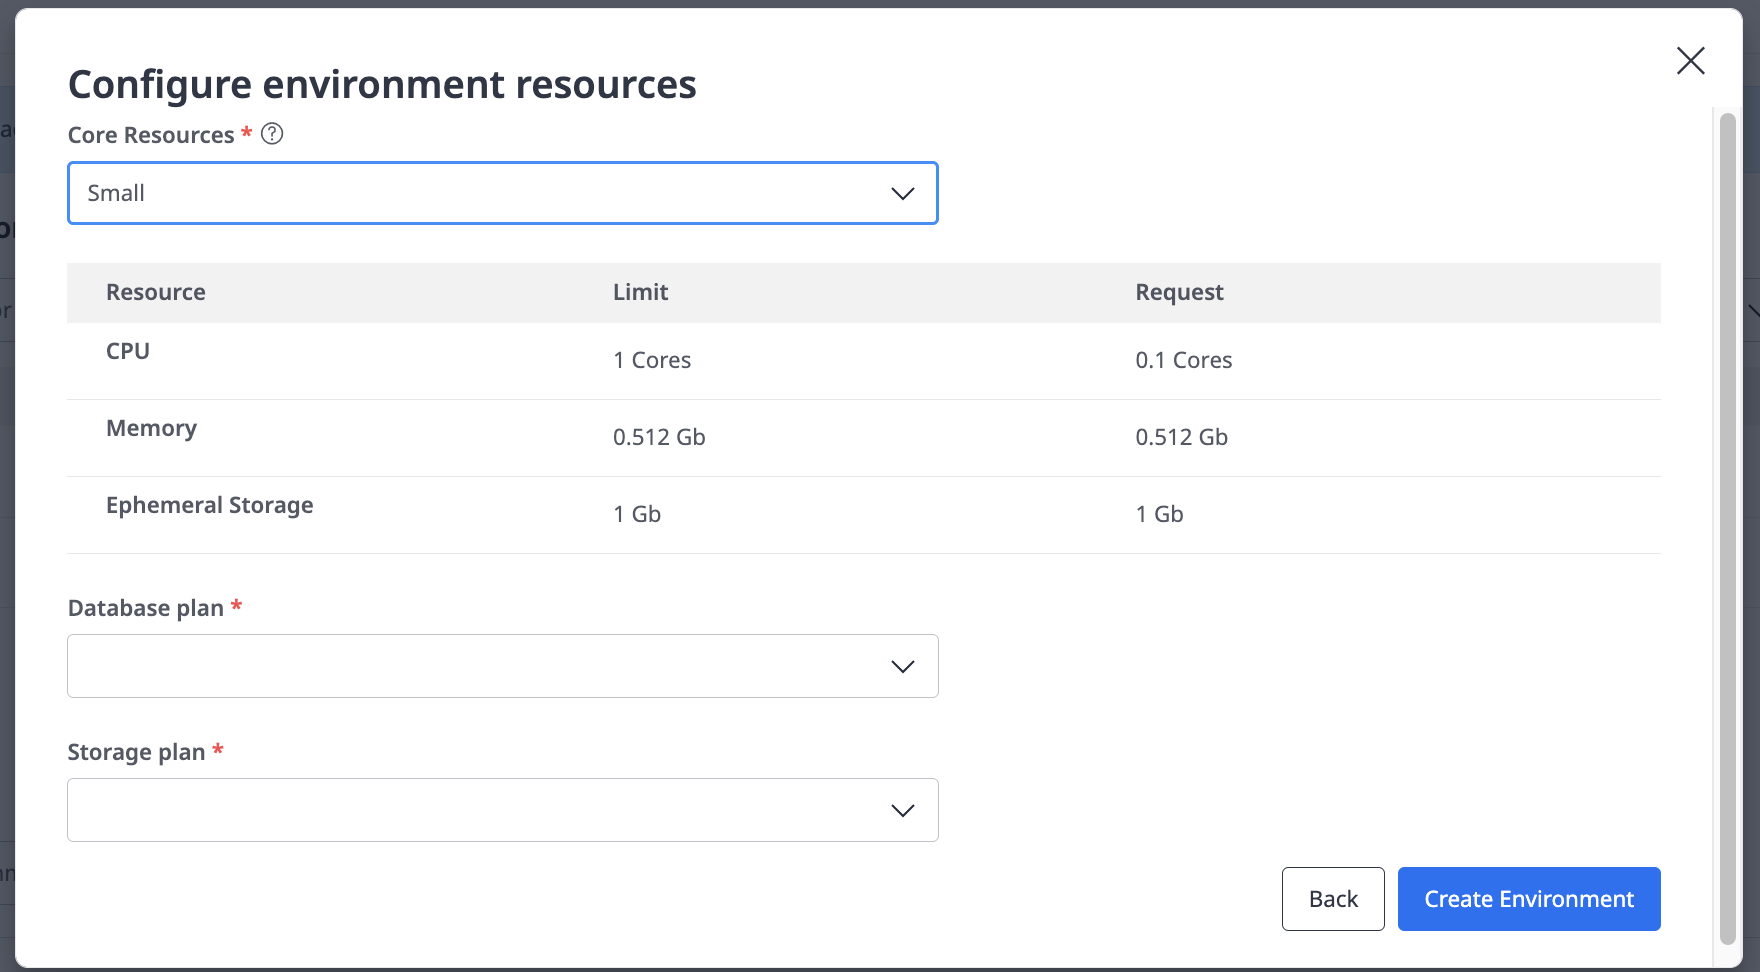
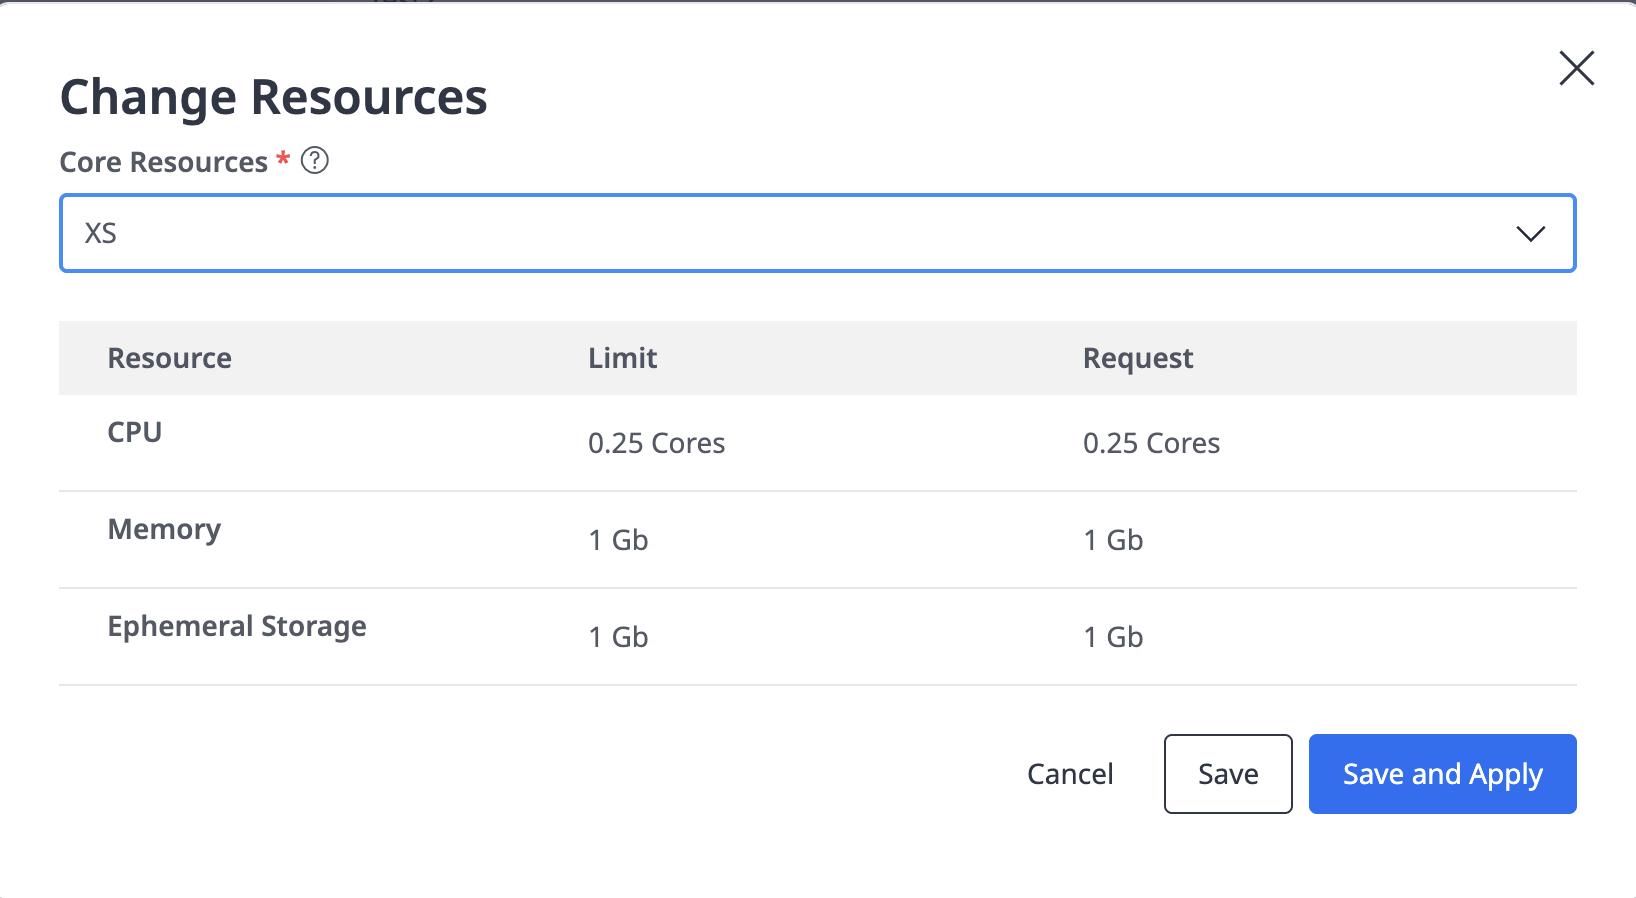
Added release notes for Private cloud portal release 7.27.0

diff --git a/content/en/docs/deployment/private-cloud/private-cloud-deploy/_index.md b/content/en/docs/deployment/private-cloud/private-cloud-deploy/_index.md
@@ -136,16 +136,24 @@ All environments are defined as production environments, which means that [secur
 
     For core resources, there are two sets of values. The **Request** value is the amount of core resources which are initially requested. The **Limit** value is the maximum amount of resource that the environment can use.
 
-    There are three pre-defined sets of resources, **Small**, **Medium**, and **Large**. Choosing these will set the **CPU** and **Memory** values automatically.
+    There are six pre-defined sets of resources, **XS**, **S**, **M**, **L**, **XL**, and **XXL**.
+
+    Legacy plans are still visible with a **Legacy** prefix.
 
     | **Name** | **CPU cores**: Limit | **Memory (GB)**: Limit | **Ephemeral Storage (GB)**: Limit | **CPU cores**: Request | **Memory (GB)**: Request | **Ephemeral Storage (GB)**: Request |
     | --- | --- | --- | --- | --- | --- | --- |
-    | Small | 1 | 0.5 | 1 | 0.1 | 0.5 | 1 |
-    | Medium | 2 | 2 | 1 | 1 | 1 | 1 |
-    | Large | 4 | 4 | 1 | 2 | 2 | 1 |
+    | XS | 0.25 | 1 | 1 | 0.25 | 1 | 1 |
+    | S | 0.5 | 2 | 1 | 0.5 | 2 | 1 |
+    | M | 1 | 4 | 1 | 1 | 4 | 1 |
+    | L | 2 | 8 | 1 | 2 | 8 | 1 |
+    | XL | 4 | 16 | 1 | 4 | 16 | 1 |
+    | XXL | 8 | 32 | 1 | 4 | 32 | 1 |
+    | Legacy Small | 1 | 0.5 | 1 | 0.1 | 0.5 | 1 |
+    | Legacy Medium | 2 | 2 | 1 | 1 | 1 | 1 |
+    | Legacy Large | 4 | 4 | 1 | 2 | 2 | 1 |
     | Custom | own choice | own choice | own choice | own choice | own choice | own choice |
 
-    Alternatively, you can choose **Custom**, and enter your own requirements for **CPU** and **Memory**. Ensure that these values are the same or greater than the values for a *Small* environment, otherwise you may run into problems running your app.
+    Alternatively, you can choose **Custom**, and enter your own requirements for **CPU** and **Memory**. Ensure that these values are the same or greater than the values for a *Legacy Small* environment, otherwise you may run into problems running your app.
 
     {{% alert color="info" %}}If the cluster manager has added and enabled customized core resource plan on Cluster manager page, only the configured custom core resource plans will be visible for selection. Once the custom core resources plans are enabled, environments cannot be created using the default plans until all the associated environments using the custom core resource plan are deleted and the custom resource plan is disabled on the **Cluster manager** page.{{% /alert %}}
 
@@ -538,6 +546,12 @@ Images are not deleted from the container registry. You should delete those imag
 {{% alert color="warning" %}}
 If any of these garbage collection steps fail, you will no longer see the environment in the Mendix Portal, and will have to [delete the storage instances](#delete-storage) manually.
 {{% /alert %}}
+
+##### Custom JVM Heap Memory
+
+You only need to manually adjust JVM memory usage if the default settings aren't fully utilizing available memory. For more information, see [JVM Memory Tuning for Mendix on Kubernetes](/developerportal/deploy/private-cloud-jvm-memory-tuning/).
+
+{{< figure src="/attachments/deployment/private-cloud/private-cloud-deploy/ChangeJVMHeapMemory.png" class="no-border" >}}
 
 ##### Read-Only Root Filesystem
 